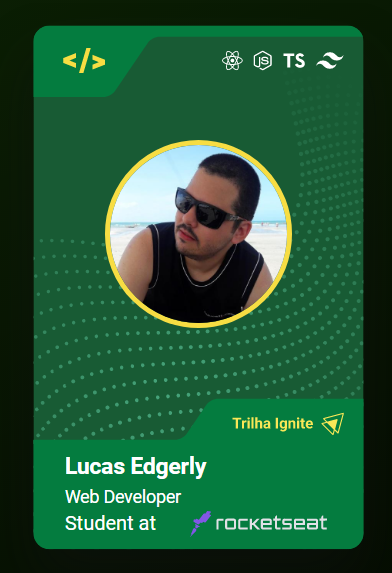
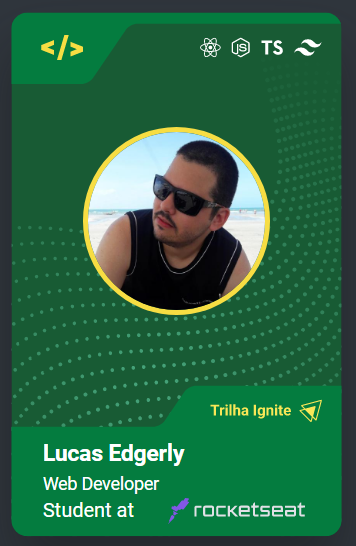
update card

diff --git a/style.css b/style.css
@@ -9,7 +9,7 @@ body * {
 }
 
 body {
-  background: linear-gradient(151.79deg,#0f2b05, #000000);
+  background: #30363d;
   text-align: center;
   height: 100vh;
 }
